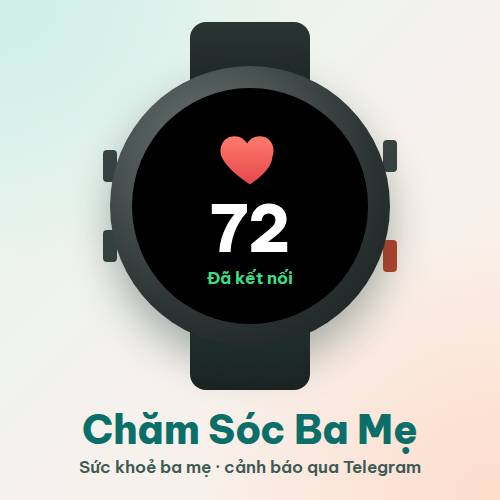
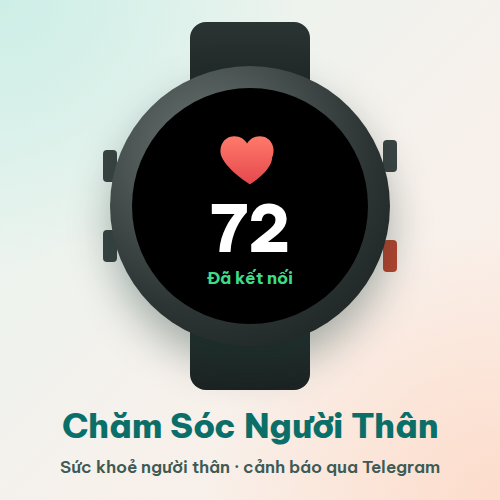
Rename the app to Chăm Sóc Người Thân
- Watch app name (vi) 'Chăm Sóc Người Thân', (en) 'Cham Soc Nguoi Than';
  title drawn with FONT_TINY so the longer name fits small round screens
- Website title, login, privacy page, share texts, Store listing copy
  (vi/en) and README; store images re-rendered with the new name
- Domains and repository name are unchanged

Claude-Session: https://claude.ai/code/session_019PoA7eTNcczKsit1HeYpH3

Changed region(s): [[0.12, 0.81, 0.9, 0.96]]

diff --git a/watch/store/screens.html b/watch/store/screens.html
@@ -6,17 +6,17 @@ html, body { width: 454px; height: 454px; background: transparent; overflow: hid
 /* Bố cục theo watch/source/MainView.mc: vị trí theo % chiều cao màn hình tròn */
 .face { position: relative; width: 454px; height: 454px; border-radius: 50%; background: #000; font-family: "Be Vietnam Pro", sans-serif; }
 .l { position: absolute; left: 0; right: 0; text-align: center; transform: translateY(-50%); white-space: nowrap; }
-.small { font-size: 30px; font-weight: 600; } .medium { font-size: 38px; font-weight: 700; }
+.small { font-size: 30px; font-weight: 600; } .title { font-size: 25px; font-weight: 600; } .medium { font-size: 38px; font-weight: 700; }
 .num { font-size: 104px; font-weight: 800; letter-spacing: 2px; } .xtiny { font-size: 21px; font-weight: 500; }
 .blue { color: #4ea3ff; } .white { color: #fff; } .green { color: #3ddc84; } .red { color: #ff4040; }
 .ltgray { color: #aab2b0; } .code { font-size: 84px; } .dkgray { color: #6b7371; }
 </style></head><body><div class="face" id="face"></div>
 <script>
 const S = {
-  pair_vi: [["17","small blue","Chăm Sóc Ba Mẹ"],["32","small white","Mã kết nối"],["50","num green code","482 917"],["66","xtiny ltgray","Mở thông báo trên điện thoại"],["76","xtiny ltgray","hoặc nhập mã trên web"]],
-  main_vi: [["17","small blue","Chăm Sóc Ba Mẹ"],["36","num red","72"],["51","xtiny ltgray","nhịp tim / phút"],["65","medium green","Đã kết nối"],["78","small white","Gửi lúc 07:35"],["89","xtiny dkgray","Bấm để gửi ngay"]],
-  main_en: [["17","small blue","Family Care"],["36","num red","72"],["51","xtiny ltgray","heart rate / min"],["65","medium green","Connected"],["78","small white","Sent at 07:35"],["89","xtiny dkgray","Press to send now"]],
-  pair_en: [["17","small blue","Family Care"],["32","small white","Pairing code"],["50","num green code","482 917"],["66","xtiny ltgray","Tap the phone notification"],["76","xtiny ltgray","or enter the code online"]],
+  pair_vi: [["17","title blue","Chăm Sóc Người Thân"],["32","small white","Mã kết nối"],["50","num green code","482 917"],["66","xtiny ltgray","Mở thông báo trên điện thoại"],["76","xtiny ltgray","hoặc nhập mã trên web"]],
+  main_vi: [["17","title blue","Chăm Sóc Người Thân"],["36","num red","72"],["51","xtiny ltgray","nhịp tim / phút"],["65","medium green","Đã kết nối"],["78","small white","Gửi lúc 07:35"],["89","xtiny dkgray","Bấm để gửi ngay"]],
+  main_en: [["17","title blue","Family Care"],["36","num red","72"],["51","xtiny ltgray","heart rate / min"],["65","medium green","Connected"],["78","small white","Sent at 07:35"],["89","xtiny dkgray","Press to send now"]],
+  pair_en: [["17","title blue","Family Care"],["32","small white","Pairing code"],["50","num green code","482 917"],["66","xtiny ltgray","Tap the phone notification"],["76","xtiny ltgray","or enter the code online"]],
 };
 const which = location.hash.slice(1);
 document.getElementById("face").innerHTML = S[which].map(([y, c, t]) => `<div class="l ${c}" style="top:${y}%">${t}</div>`).join("");

diff --git a/watch/store/hero.html b/watch/store/hero.html
@@ -25,7 +25,7 @@ p.sub { font-size: 28px; line-height: 1.35; color: #3d5a54; font-weight: 500; ma
 .bezel { position: absolute; inset: 20px 0; border-radius: 50%; background: radial-gradient(circle at 35% 30%, #6c7674, #2c3534 60%, #161c1b); box-shadow: 0 30px 60px rgba(18,48,44,.35); }
 .btn { position: absolute; width: 22px; height: 46px; background: #3a4443; border-radius: 6px; }
 .face { position: absolute; left: 36px; top: 56px; width: 328px; height: 328px; border-radius: 50%; background: #000; display: flex; flex-direction: column; align-items: center; justify-content: center; text-align: center; }
-.face .t { color: #4ea3ff; font-size: 26px; font-weight: 700; }
+.face .t { color: #4ea3ff; font-size: 21px; font-weight: 700; }
 .face .hr { color: #ff4d4d; font-size: 110px; font-weight: 800; line-height: 1; margin-top: 10px; font-variant-numeric: tabular-nums; }
 .face .u { color: #b8c2c0; font-size: 18px; margin-top: 4px; }
 .face .ok { color: #3ddc84; font-size: 28px; font-weight: 700; margin-top: 16px; }
@@ -41,10 +41,10 @@ p.sub { font-size: 28px; line-height: 1.35; color: #3d5a54; font-weight: 500; ma
 <div class="left">
   <div class="brand">
     <div class="logo"><svg width="42" height="42" viewBox="0 0 24 24" fill="none" stroke="#fff" stroke-width="2.2" stroke-linecap="round" stroke-linejoin="round"><path d="M20.8 4.6a5.5 5.5 0 0 0-7.8 0L12 5.7l-1-1.1a5.5 5.5 0 0 0-7.8 7.8l1 1.1L12 21l7.8-7.5 1-1.1a5.5 5.5 0 0 0 0-7.8z"/></svg></div>
-    <b>Chăm Sóc Ba Mẹ</b>
+    <b>Chăm Sóc Người Thân</b>
   </div>
-  <h1>Ba mẹ đeo đồng hồ,<br><span>con yên tâm.</span></h1>
-  <p class="sub">Nhịp tim, SpO2, giấc ngủ gửi về mỗi 5 phút. Có gì bất thường, cả nhà nhận cảnh báo ngay trên Telegram.</p>
+  <h1>Người thân đeo đồng hồ,<br><span>cả nhà yên tâm.</span></h1>
+  <p class="sub">Nhịp tim, vận động, căng thẳng gửi về mỗi 5 phút. Có gì bất thường, cả nhà nhận cảnh báo ngay trên Telegram.</p>
   <div class="chips">
     <span class="chip"><span class="dot" style="background:#e5484d"></span>Nhịp tim mỗi 5 phút</span>
     <span class="chip"><span class="dot" style="background:#2aabee"></span>Cảnh báo Telegram</span>
@@ -59,7 +59,7 @@ p.sub { font-size: 28px; line-height: 1.35; color: #3d5a54; font-weight: 500; ma
     <div class="btn" style="right:-8px; top:130px"></div><div class="btn" style="right:-8px; top:270px; background:#b8452f"></div>
     <div class="bezel"></div>
     <div class="face">
-      <div class="t">Chăm Sóc Ba Mẹ</div>
+      <div class="t">Chăm Sóc Người Thân</div>
       <div class="hr">72</div>
       <div class="u">nhịp tim / phút</div>
       <div class="ok">Đã kết nối</div>

diff --git a/web/app/d/[code]/page.tsx b/web/app/d/[code]/page.tsx
@@ -8,7 +8,7 @@ import { getPairingState } from "@/lib/data";
 export const dynamic = "force-dynamic";
 
 /**
- * Trang đồng hồ mở trên điện thoại (thông báo "Chăm Sóc Ba Mẹ" từ Garmin Connect).
+ * Trang đồng hồ mở trên điện thoại (thông báo "Chăm Sóc Người Thân" từ Garmin Connect).
  * - Con cháu đang đăng nhập: vào thẳng trang kết nối, mã đã điền sẵn.
  * - Điện thoại của ba mẹ: gửi link này cho con cháu, con cháu bấm là kết nối được.
  */
@@ -34,7 +34,7 @@ export default async function WatchLinkPage({ params }: { params: Promise<{ code
             <div style={{ width: "100%", display: "flex", flexDirection: "column", gap: 10 }}>
               <h2 style={{ fontSize: 17 }}>Đây là điện thoại của ba mẹ?</h2>
               <p className="muted" style={{ fontSize: 14, margin: 0 }}>Gửi link này cho con cháu. Con cháu bấm vào là kết nối xong, ba mẹ không phải làm gì thêm.</p>
-              <ShareLink text={`Đồng hồ của ba/mẹ đang chờ kết nối Chăm Sóc Ba Mẹ (mã ${pretty}). Con bấm vào đây để kết nối:`} />
+              <ShareLink text={`Đồng hồ của ba/mẹ đang chờ kết nối Chăm Sóc Người Thân (mã ${pretty}). Con bấm vào đây để kết nối:`} />
             </div>
             <div style={{ width: "100%", display: "flex", flexDirection: "column", gap: 10, alignItems: "center" }}>
               <h2 style={{ fontSize: 17 }}>Bạn là con cháu?</h2>
@@ -51,7 +51,7 @@ export default async function WatchLinkPage({ params }: { params: Promise<{ code
         ) : (
           <div>
             <h1 style={{ fontSize: 22 }}>Mã đã hết hạn</h1>
-            <p className="muted">Mở lại ứng dụng “Chăm Sóc Ba Mẹ” trên đồng hồ để lấy mã mới, điện thoại sẽ nhận thông báo mới.</p>
+            <p className="muted">Mở lại ứng dụng “Chăm Sóc Người Thân” trên đồng hồ để lấy mã mới, điện thoại sẽ nhận thông báo mới.</p>
           </div>
         )}
       </section>

diff --git a/web/app/quyen-rieng-tu/page.tsx b/web/app/quyen-rieng-tu/page.tsx
@@ -1,7 +1,7 @@
 import type { Metadata } from "next";
 import { getContactEmail } from "@/lib/settings";
 
-export const metadata: Metadata = { title: "Quyền riêng tư · Chăm Sóc Ba Mẹ" };
+export const metadata: Metadata = { title: "Quyền riêng tư · Chăm Sóc Người Thân" };
 
 export const dynamic = "force-dynamic";
 
@@ -15,7 +15,7 @@ export default async function PrivacyPage() {
         <p className="muted" style={{ margin: 0 }}>Cập nhật: 05/10/2026</p>
 
         <h2>Ứng dụng làm gì</h2>
-        <p>Chăm Sóc Ba Mẹ giúp con cháu theo dõi sức khoẻ ba mẹ từ xa qua đồng hồ Garmin và báo qua Telegram.
+        <p>Chăm Sóc Người Thân giúp gia đình theo dõi sức khoẻ ông bà, ba mẹ và người thân từ xa qua đồng hồ Garmin và báo qua Telegram.
           <strong> Đây không phải thiết bị y tế</strong>, không chẩn đoán bệnh và không thay thế bác sĩ hay dịch vụ cấp cứu.</p>
 
         <h2>Dữ liệu thu thập</h2>
@@ -45,7 +45,7 @@ export default async function PrivacyPage() {
 
         <h1 style={{ fontSize: 22 }} lang="en">Privacy policy (English)</h1>
         <div lang="en" style={{ display: "flex", flexDirection: "column", gap: 10 }}>
-          <p>Chăm Sóc Ba Mẹ (“Care for Mom &amp; Dad”) lets family members check on elderly parents through their Garmin watch
+          <p>Chăm Sóc Người Thân (“Care for Loved Ones”) lets a family check on grandparents, parents and other loved ones through their Garmin watch
             and Telegram. <strong>It is not a medical device</strong>; it does not diagnose anything and does not replace a
             doctor or emergency services.</p>
           <p><strong>Data collected.</strong> From the watch, only after it is paired with a 6-digit code: heart rate, steps,

diff --git a/web/app/dang-nhap/page.tsx b/web/app/dang-nhap/page.tsx
@@ -12,7 +12,7 @@ export default async function LoginPage({ searchParams }: { searchParams: Promis
   if (await getSession()) redirect(safeNext ?? "/");
   if (await getIdentity()) redirect(safeNext ?? "/bat-dau");
   const points = [
-    { icon: <IconWatch size={20} />, tile: "tile-teal", text: "Xem nhịp tim, giấc ngủ, bước chân của ba mẹ từ đồng hồ Garmin" },
+    { icon: <IconWatch size={20} />, tile: "tile-teal", text: "Xem nhịp tim, giấc ngủ, vận động của người thân từ đồng hồ Garmin" },
     { icon: <IconBell size={20} />, tile: "tile-coral", text: "Bot Telegram báo ngay cho cả nhà khi có chỉ số bất thường" },
     { icon: <IconUsers size={20} />, tile: "tile-violet", text: "Anh chị em cùng theo dõi, phân công ai gọi hỏi thăm" },
   ];
@@ -21,7 +21,7 @@ export default async function LoginPage({ searchParams }: { searchParams: Promis
       <section className="card" style={{ display: "flex", flexDirection: "column", gap: 18, alignItems: "center", textAlign: "center", padding: 28 }}>
         <HeartArt size={84} />
         <div>
-          <h1 style={{ fontSize: 28 }}>Chăm sóc ba mẹ<br />từ xa, yên tâm hơn</h1>
+          <h1 style={{ fontSize: 28 }}>Chăm sóc người thân<br />từ xa, yên tâm hơn</h1>
           <p className="muted" style={{ fontSize: 15, margin: "8px 0 0" }}>Đăng nhập bằng email. Miễn phí cho gia đình.</p>
         </div>
         <LoginForm next={safeNext} />

diff --git a/watch/store/cover.html b/watch/store/cover.html
@@ -17,7 +17,7 @@ body { font-family: "Be Vietnam Pro", sans-serif; position: relative;
 .heart { width: 70px; height: 70px; }
 .hr { color: #fff; font-size: 64px; font-weight: 800; line-height: 1; margin-top: 4px; font-variant-numeric: tabular-nums; }
 .ok { color: #3ddc84; font-size: 17px; font-weight: 700; margin-top: 6px; }
-.name { position: absolute; left: 0; right: 0; top: 404px; text-align: center; font-size: 40px; font-weight: 800; color: #0b6f69; letter-spacing: -0.01em; }
+.name { position: absolute; left: 0; right: 0; top: 404px; text-align: center; font-size: 34px; font-weight: 800; color: #0b6f69; letter-spacing: -0.01em; }
 .tag { position: absolute; left: 0; right: 0; top: 456px; text-align: center; font-size: 17px; font-weight: 600; color: #3d5a54; }
 </style></head><body>
 <div class="strap top"></div><div class="strap bottom"></div>
@@ -30,6 +30,6 @@ body { font-family: "Be Vietnam Pro", sans-serif; position: relative;
   <div class="hr">72</div>
   <div class="ok">Đã kết nối</div>
 </div>
-<div class="name">Chăm Sóc Ba Mẹ</div>
-<div class="tag">Sức khoẻ ba mẹ · cảnh báo qua Telegram</div>
+<div class="name">Chăm Sóc Người Thân</div>
+<div class="tag">Sức khoẻ người thân · cảnh báo qua Telegram</div>
 </body></html>

diff --git a/web/app/layout.tsx b/web/app/layout.tsx
@@ -7,8 +7,8 @@ import { isDemo } from "@/lib/db";
 import "./globals.css";
 
 export const metadata: Metadata = {
-  title: "Chăm Sóc Ba Mẹ",
-  description: "Theo dõi sức khoẻ ba mẹ từ đồng hồ Garmin, cảnh báo qua Telegram",
+  title: "Chăm Sóc Người Thân",
+  description: "Theo dõi sức khoẻ người thân từ đồng hồ Garmin, cảnh báo qua Telegram",
 };
 
 export const viewport: Viewport = { width: "device-width", initialScale: 1, themeColor: "#dff3ef" };
@@ -32,7 +32,7 @@ export default async function RootLayout({ children }: { children: React.ReactNo
               <span aria-hidden className="icon-tile" style={{ background: "var(--accent-strong)", color: "#fff", borderRadius: 12 }}>
                 <IconHeart size={20} />
               </span>
-              <strong style={{ fontSize: 17, whiteSpace: "nowrap", minWidth: 0, overflow: "hidden", textOverflow: "ellipsis" }}>Chăm Sóc Ba Mẹ</strong>
+              <strong style={{ fontSize: 17, whiteSpace: "nowrap", minWidth: 0, overflow: "hidden", textOverflow: "ellipsis" }}>Chăm Sóc Người Thân</strong>
             </Link>
             {session && <TopNav />}
             <div style={{ flex: 1 }} />

diff --git a/web/app/ket-noi-dong-ho/page.tsx b/web/app/ket-noi-dong-ho/page.tsx
@@ -52,7 +52,7 @@ export default async function PairPage({ searchParams }: { searchParams: Promise
       <section className="card row" style={{ alignItems: "flex-start", gap: 16, flexWrap: "nowrap" }}>
         <span style={STEP}>1</span>
         <div style={{ flex: 1, minWidth: 0 }}>
-          <h2 style={{ marginBottom: 6 }}>Cài ứng dụng “Chăm Sóc Ba Mẹ” lên đồng hồ</h2>
+          <h2 style={{ marginBottom: 6 }}>Cài ứng dụng “Chăm Sóc Người Thân” lên đồng hồ</h2>
           {storeUrl ? (
             <div className="row" style={{ alignItems: "flex-start", gap: 18 }}>
               <div aria-label="Mã QR tới ứng dụng" style={{ background: "#fff", padding: 6, borderRadius: 8, lineHeight: 0 }}

diff --git a/web/app/gia-dinh/forms.tsx b/web/app/gia-dinh/forms.tsx
@@ -67,7 +67,7 @@ export function JoinByCodeForm() {
 export function InviteForm() {
   const [state, action, pending] = useActionState(createInvite, INIT);
   const link = state.value ? `${typeof window !== "undefined" ? window.location.origin : ""}/moi/${state.value}` : "";
-  const shareText = `Mời bạn cùng theo dõi sức khoẻ ba mẹ trên Chăm Sóc Ba Mẹ: ${link}`;
+  const shareText = `Mời bạn cùng theo dõi sức khoẻ người thân trên Chăm Sóc Người Thân: ${link}`;
   return (
     <form action={action} style={{ display: "flex", flexDirection: "column", gap: 10 }}>
       <div className="row" style={{ gap: 8 }}>

diff --git a/web/app/quan-tri/page.tsx b/web/app/quan-tri/page.tsx
@@ -9,7 +9,7 @@ import { setSystemAdmin } from "./actions";
 import { BotForm, ClaimForm, GeneralForm, ResetPasswordForm } from "./forms";
 
 export const dynamic = "force-dynamic";
-export const metadata: Metadata = { title: "Quản trị hệ thống · Chăm Sóc Ba Mẹ", robots: { index: false } };
+export const metadata: Metadata = { title: "Quản trị hệ thống · Chăm Sóc Người Thân", robots: { index: false } };
 
 function Title({ icon, tile, title, sub }: { icon: React.ReactNode; tile: string; title: string; sub?: string }) {
   return (

diff --git a/backend/chamsoc/watch_key.py b/backend/chamsoc/watch_key.py
@@ -3,7 +3,7 @@
     python -m chamsoc.watch_key --elder <elder_id> [--label "Venu 4 của Ba"]
 
 Mã chỉ hiện một lần; cơ sở dữ liệu chỉ lưu bản băm. Dán mã vào phần cài đặt của
-ứng dụng "Chăm Sóc Ba Mẹ" trong app Garmin Connect trên điện thoại của ba mẹ.
+ứng dụng "Chăm Sóc Người Thân" trong app Garmin Connect trên điện thoại của ba mẹ.
 """
 
 from __future__ import annotations

diff --git a/backend/api/index.py b/backend/api/index.py
@@ -32,7 +32,7 @@ from chamsoc.config import Settings  # noqa: E402
 from chamsoc.telegram import TelegramClient  # noqa: E402
 
 logging.basicConfig(level=logging.INFO)
-app = FastAPI(title="Chăm Sóc Ba Mẹ")
+app = FastAPI(title="Chăm Sóc Người Thân")
 
 
 def _settings() -> Settings:
